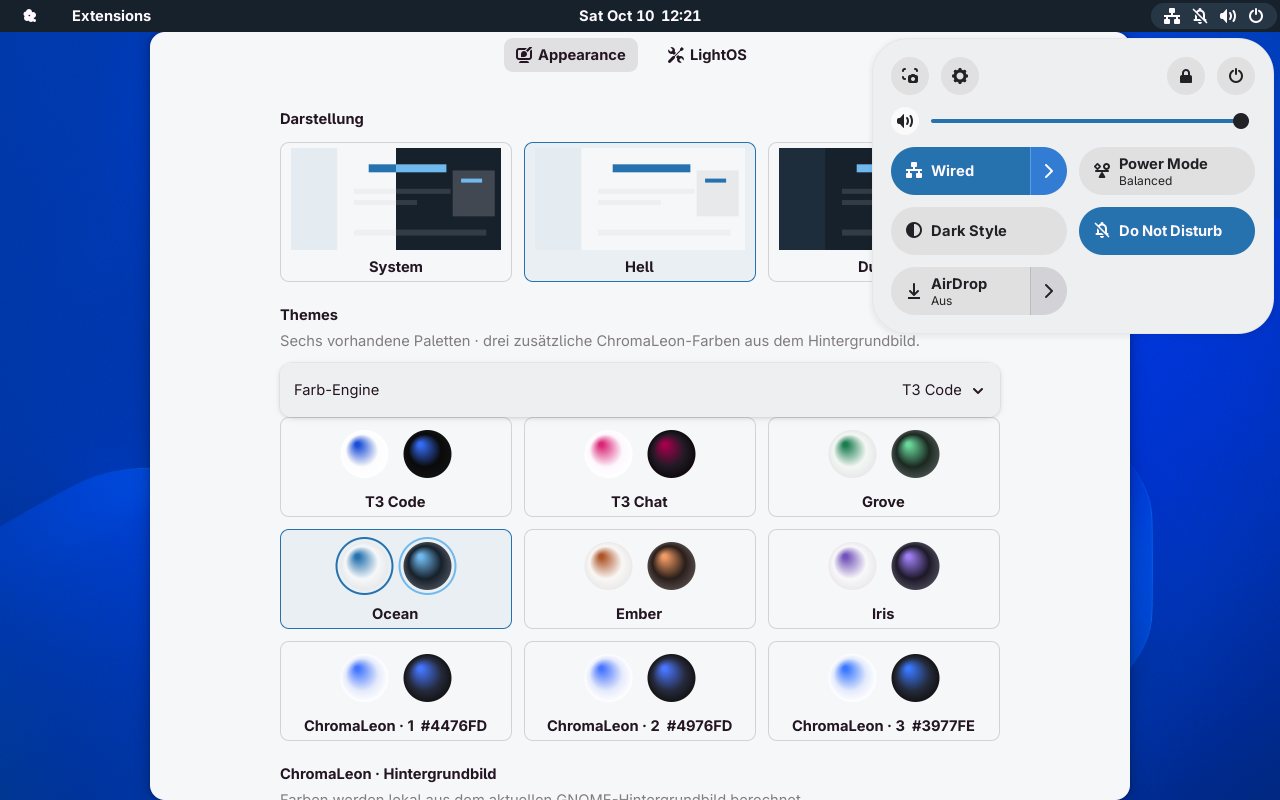
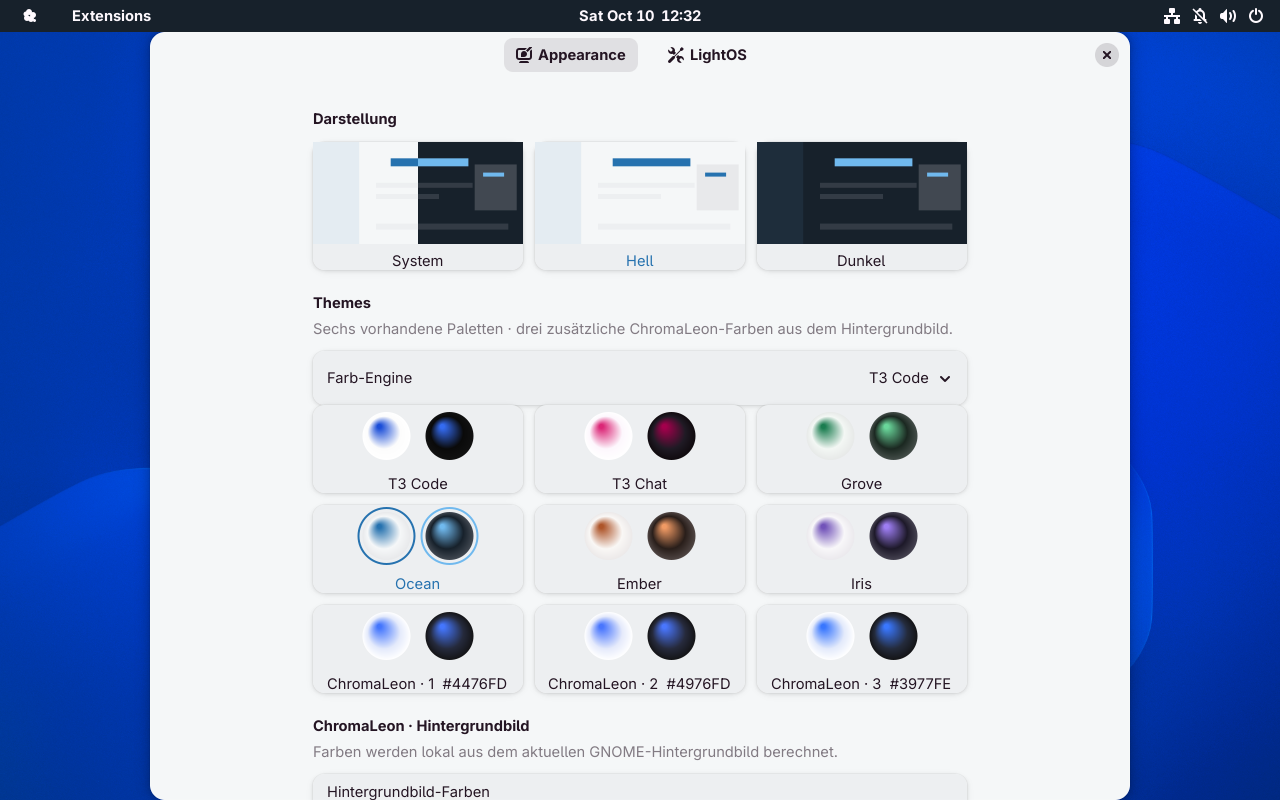
Use native GNOME cards for Appearance theme choices

diff --git a/extension/prefs.js b/extension/prefs.js
@@ -45,7 +45,7 @@ function preview(colors, scheme = false, selected = () => false) {
 function choice(title, artwork, onClick) {
     const box = new Gtk.Box({orientation:Gtk.Orientation.VERTICAL,spacing:8});
     box.append(artwork); box.append(new Gtk.Label({label:title}));
-    const button = new Gtk.Button({child:box,hexpand:true,css_classes:['lightos-choice']});
+    const button = new Gtk.Button({child:box,hexpand:true,css_classes:['card']});
     button.connect('clicked',onClick);
     return button;
 }
@@ -54,9 +54,6 @@ export default class LightOSPreferences extends ExtensionPreferences {
         window.set_default_size(980,820);
         const settings = this.getSettings();
         const iface = new Gio.Settings({schema_id:'org.gnome.desktop.interface'});
-        const provider = new Gtk.CssProvider();
-        provider.load_from_string('.lightos-choice { border: 1px solid alpha(currentColor, .16); background: transparent; } .lightos-choice.selected { border-color: @accent_bg_color; background: alpha(@accent_bg_color, .06); }');
-        Gtk.StyleContext.add_provider_for_display(Gdk.Display.get_default(),provider,Gtk.STYLE_PROVIDER_PRIORITY_APPLICATION);
         const page = new Adw.PreferencesPage({title:'Appearance',icon_name:'preferences-desktop-appearance-symbolic'});
         window.add(page);
         const buttons=[];
@@ -86,7 +83,7 @@ export default class LightOSPreferences extends ExtensionPreferences {
         for(let i=0;i<3;i++) {
             const box=new Gtk.Box({orientation:Gtk.Orientation.VERTICAL,spacing:8});
             const label=new Gtk.Label();
-            const button=new Gtk.Button({child:box,hexpand:true,css_classes:['lightos-choice']});
+            const button=new Gtk.Button({child:box,hexpand:true,css_classes:['card']});
             button.connect('clicked',() => {
                 const color=settings.get_strv('chroma-colors')[i];
                 chooseColor(settings,settings.get_string('chroma-wallpaper'),color);
@@ -145,7 +142,11 @@ export default class LightOSPreferences extends ExtensionPreferences {
         search.add(new Adw.ActionRow({title:'GNOME-Suchanbieter',subtitle:'Dateien, Rechner und Einstellungen unter GNOME Einstellungen → Suchen aktivieren.'}));
         const restore=new Adw.PreferencesGroup({title:'Wiederherstellung',description:'Beim Deaktivieren werden verwaltete Farben und Icon-Einstellungen wiederhergestellt. Eigene CSS-Regeln bleiben erhalten.'}); layout.add(restore);
         const sync=() => {
-            for(const [button,art,selected] of buttons) {if(selected()) button.add_css_class('selected'); else button.remove_css_class('selected'); art.queue_draw();}
+            for(const [button,art,selected] of buttons) {
+                const label=button.get_child().get_last_child();
+                if(selected()) label.add_css_class('accent'); else label.remove_css_class('accent');
+                art.queue_draw();
+            }
             const isChroma=settings.get_string('color-engine')==='chromaleon';
             engine.selected=isChroma ? 1 : 0;
             const extracted=settings.get_strv('chroma-colors').slice(0,3);
@@ -159,7 +160,7 @@ export default class LightOSPreferences extends ExtensionPreferences {
                 box.prepend(view); chromaButtons[i].art=view;
                 if(!label.get_parent()) box.append(label);
                 label.label=color ? `ChromaLeon · ${i+1}  ${color.toUpperCase()}` : `ChromaLeon · ${i+1}  —`;
-                if(selected()) button.add_css_class('selected'); else button.remove_css_class('selected');
+                if(selected()) label.add_css_class('accent'); else label.remove_css_class('accent');
             });
             const uri=settings.get_string('chroma-wallpaper');
             if (previewUri !== uri) {
@@ -183,7 +184,6 @@ export default class LightOSPreferences extends ExtensionPreferences {
             customRow.sensitive=isChroma && !!settings.get_string('chroma-custom-path');
         };
         const signal=settings.connect('changed',sync); sync();
-        window.connect('close-request',() => {settings.disconnect(signal); open.disconnect(openHandler);
-            Gtk.StyleContext.remove_provider_for_display(Gdk.Display.get_default(),provider); return false;});
+        window.connect('close-request',() => {settings.disconnect(signal); open.disconnect(openHandler); return false;});
     }
 }

diff --git a/docs/appearance-styling.md b/docs/appearance-styling.md
@@ -1,0 +1,28 @@
+# Appearance: native GNOME-Karten in LightOS 6
+
+Geprüft am 10. Oktober 2026 in der isolierten Fedora-44-VM mit GNOME Shell 50.5 / Wayland.
+
+Die drei Darstellungskacheln, sechs vorhandenen Themes und drei ChromaLeon-Farben behalten ihr Raster. Ihre Buttons verwenden jetzt libadwaitas native `.card`-Klasse: eigene Kartenfläche, native Rundung und Schatten. Der selbst definierte transparente Hintergrund und die dünne, farbige Kachelumrandung wurden entfernt. Die aktive Auswahl ist an den Farbkreisen und der Akzentfarbe des Namens erkennbar; bei System/Hell/Dunkel kennzeichnet der Name die Auswahl. GNOMEs Tastaturfokus bleibt verfügbar.
+
+Die Karten übernehmen ihre Farben wie die übrigen GNOME-Einstellungszeilen aus der gewählten Farb-Engine. Es gibt dafür keinen eigenen CSS-Provider und keine festgelegten Schatten, Radien oder Rahmen. Die native Kartenklasse und ihre automatischen Hover-/Aktiv-Zustände für Buttons sind in der [libadwaita-Dokumentation](https://gnome.pages.gitlab.gnome.org/libadwaita/doc/1.9/style-classes.html#boxed-lists-cards) beschrieben.
+
+## Prüfung am installierten ZIP
+
+`python3 tools/build.py`, `python3 tools/vm.py install`, danach Neustart der VM-Sitzung über GDM. LightOS 6 ist ACTIVE. Die Aufnahme erfolgt direkt aus der laufenden VM.
+
+- Native Auswahl von Ember schreibt `palette=ember`.
+- Auswahl der zweiten ChromaLeon-Farbe aktiviert die Engine und schreibt `chroma-accent=#4976fd` beim hellen Adwaita-Hintergrundbild.
+- Klick auf Dunkel schreibt `appearance=dark`; neu geöffnete Einstellungen zeigen die dunklen Kartenflächen.
+- Auswahl von Ocean stellt `color-engine=t3` und `palette=ocean` wieder her.
+- Hell und Dunkel für beide Engines visuell geprüft. T3-Raster und die dritte Zeile mit drei ChromaLeon-Farben bleiben vorhanden.
+- Abschließend Ocean/Hell; AirDrop Aus und Shell Eval deaktiviert. Keine AirDrop-Updateüberwachung.
+
+| Stand | VM-Aufnahme |
+|---|---|
+| Vorher: transparente Kacheln mit Umrandung | [LightOS 5](screenshots/gnome/appearance-themes.png) |
+| Native Karten, Ocean/Hell | [Hell](screenshots/gnome/appearance-native-cards-light.png) |
+| Native Karten, Ocean/Dunkel | [Dunkel](screenshots/gnome/appearance-native-cards-dark.png) |
+| ChromaLeon/Hell und aktive zweite Farbe | [ChromaLeon hell](screenshots/gnome/appearance-native-cards-chromaleon-light.png) |
+| ChromaLeon/Dunkel | [ChromaLeon dunkel](screenshots/gnome/appearance-native-cards-chromaleon-dark.png) |
+
+Diese Änderung betrifft die Einstellungen und ihre Versionsnummer. Die zuvor geprüften Farb-Engines und AirDrop-Transporte wurden dabei nicht verändert; die 878 automatisierten Checks des [LightOS-5-Prüfberichts](chromaleon-validation.md) wurden für diese reine Darstellungsänderung nicht erneut ausgeführt.

diff --git a/docs/vm-access.md b/docs/vm-access.md
@@ -43,15 +43,16 @@ echte Funkübertragungen zu Apple-Geräten lassen sich darin nicht prüfen.
 Die bisherigen lokalen Transporttests und ihre Grenzen stehen im
 [AirDrop-Prüfbericht](airdrop-validation.md).
 
-Der am 10. Oktober 2026 aktualisierte Stand ist **LightOS 5** mit AirDrop,
+Der am 10. Oktober 2026 aktualisierte Stand ist **LightOS 6** mit AirDrop,
 den sechs bisherigen Farbpaletten und der zusätzlichen ChromaLeon-Engine im
 Reiter **Appearance**. Die abschließenden Tests und Aufnahmen stehen im
-[ChromaLeon-Prüfbericht](chromaleon-validation.md).
+[ChromaLeon-Prüfbericht](chromaleon-validation.md) und die aktuellen
+[Appearance-Aufnahmen von LightOS 6](appearance-styling.md).
 [Aufnahme der laufenden Sitzung](screenshots/gnome/vm-access-desktop.png).
 
 Zugangsprüfung: noVNC-HTML und JavaScript-Module antworten mit HTTP 200;
 QEMU akzeptiert den WebSocket-Handshake mit HTTP 101 und liefert das binäre
-VNC-Protokoll `RFB 003.008`. SSH funktioniert, LightOS 5 ist `ACTIVE`,
+VNC-Protokoll `RFB 003.008`. SSH funktioniert, LightOS 6 ist `ACTIVE`,
 und Shell Eval bleibt deaktiviert. Ein steuerbarer Browser ist in der
 Agent-Umgebung nicht verfügbar; die Browseroberfläche konnte deshalb hier
 nicht durchgeklickt werden. Die Aufnahme stammt direkt aus der laufenden VM.

diff --git a/README.md b/README.md
@@ -135,6 +135,8 @@ vorherigen Wert sofort wieder her. Apps, die das Signal nicht verarbeiten,
 müssen neu geöffnet werden. Flatpak-Berechtigungen werden nicht erweitert.
 
 [Prüfbericht und laufende VM-Aufnahmen](docs/chromaleon-validation.md).
+Die Farbauswahl verwendet native GNOME-Karten ohne eigene Kachelumrandung;
+[LightOS-6-Aufnahmen in Hell und Dunkel](docs/appearance-styling.md).
 
 ## Quellen und Übernahme anderer Projekte
 
